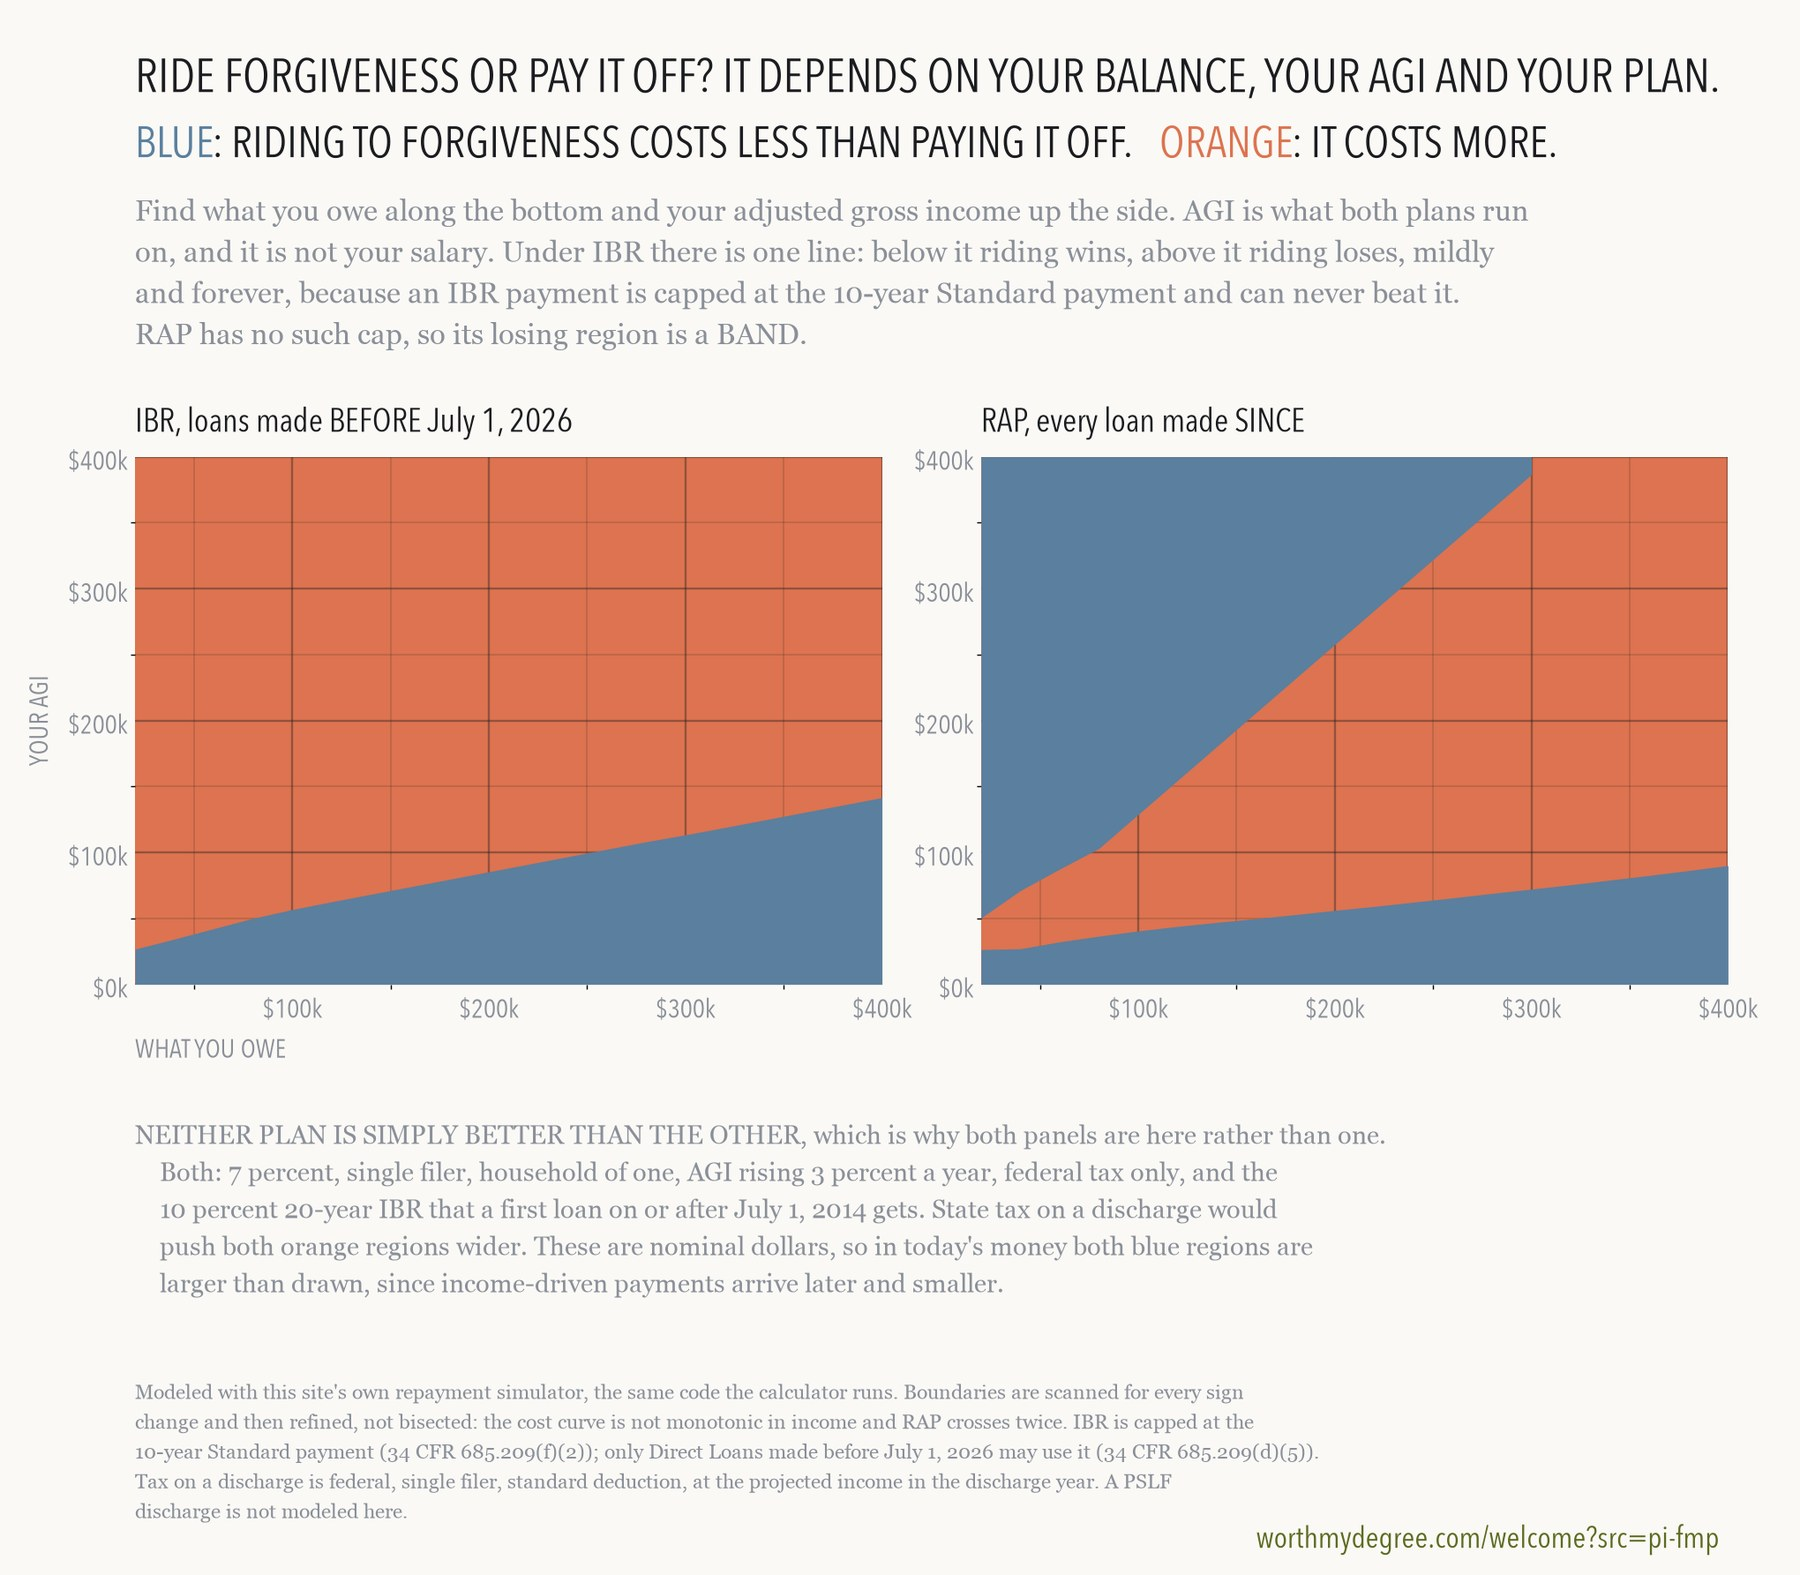
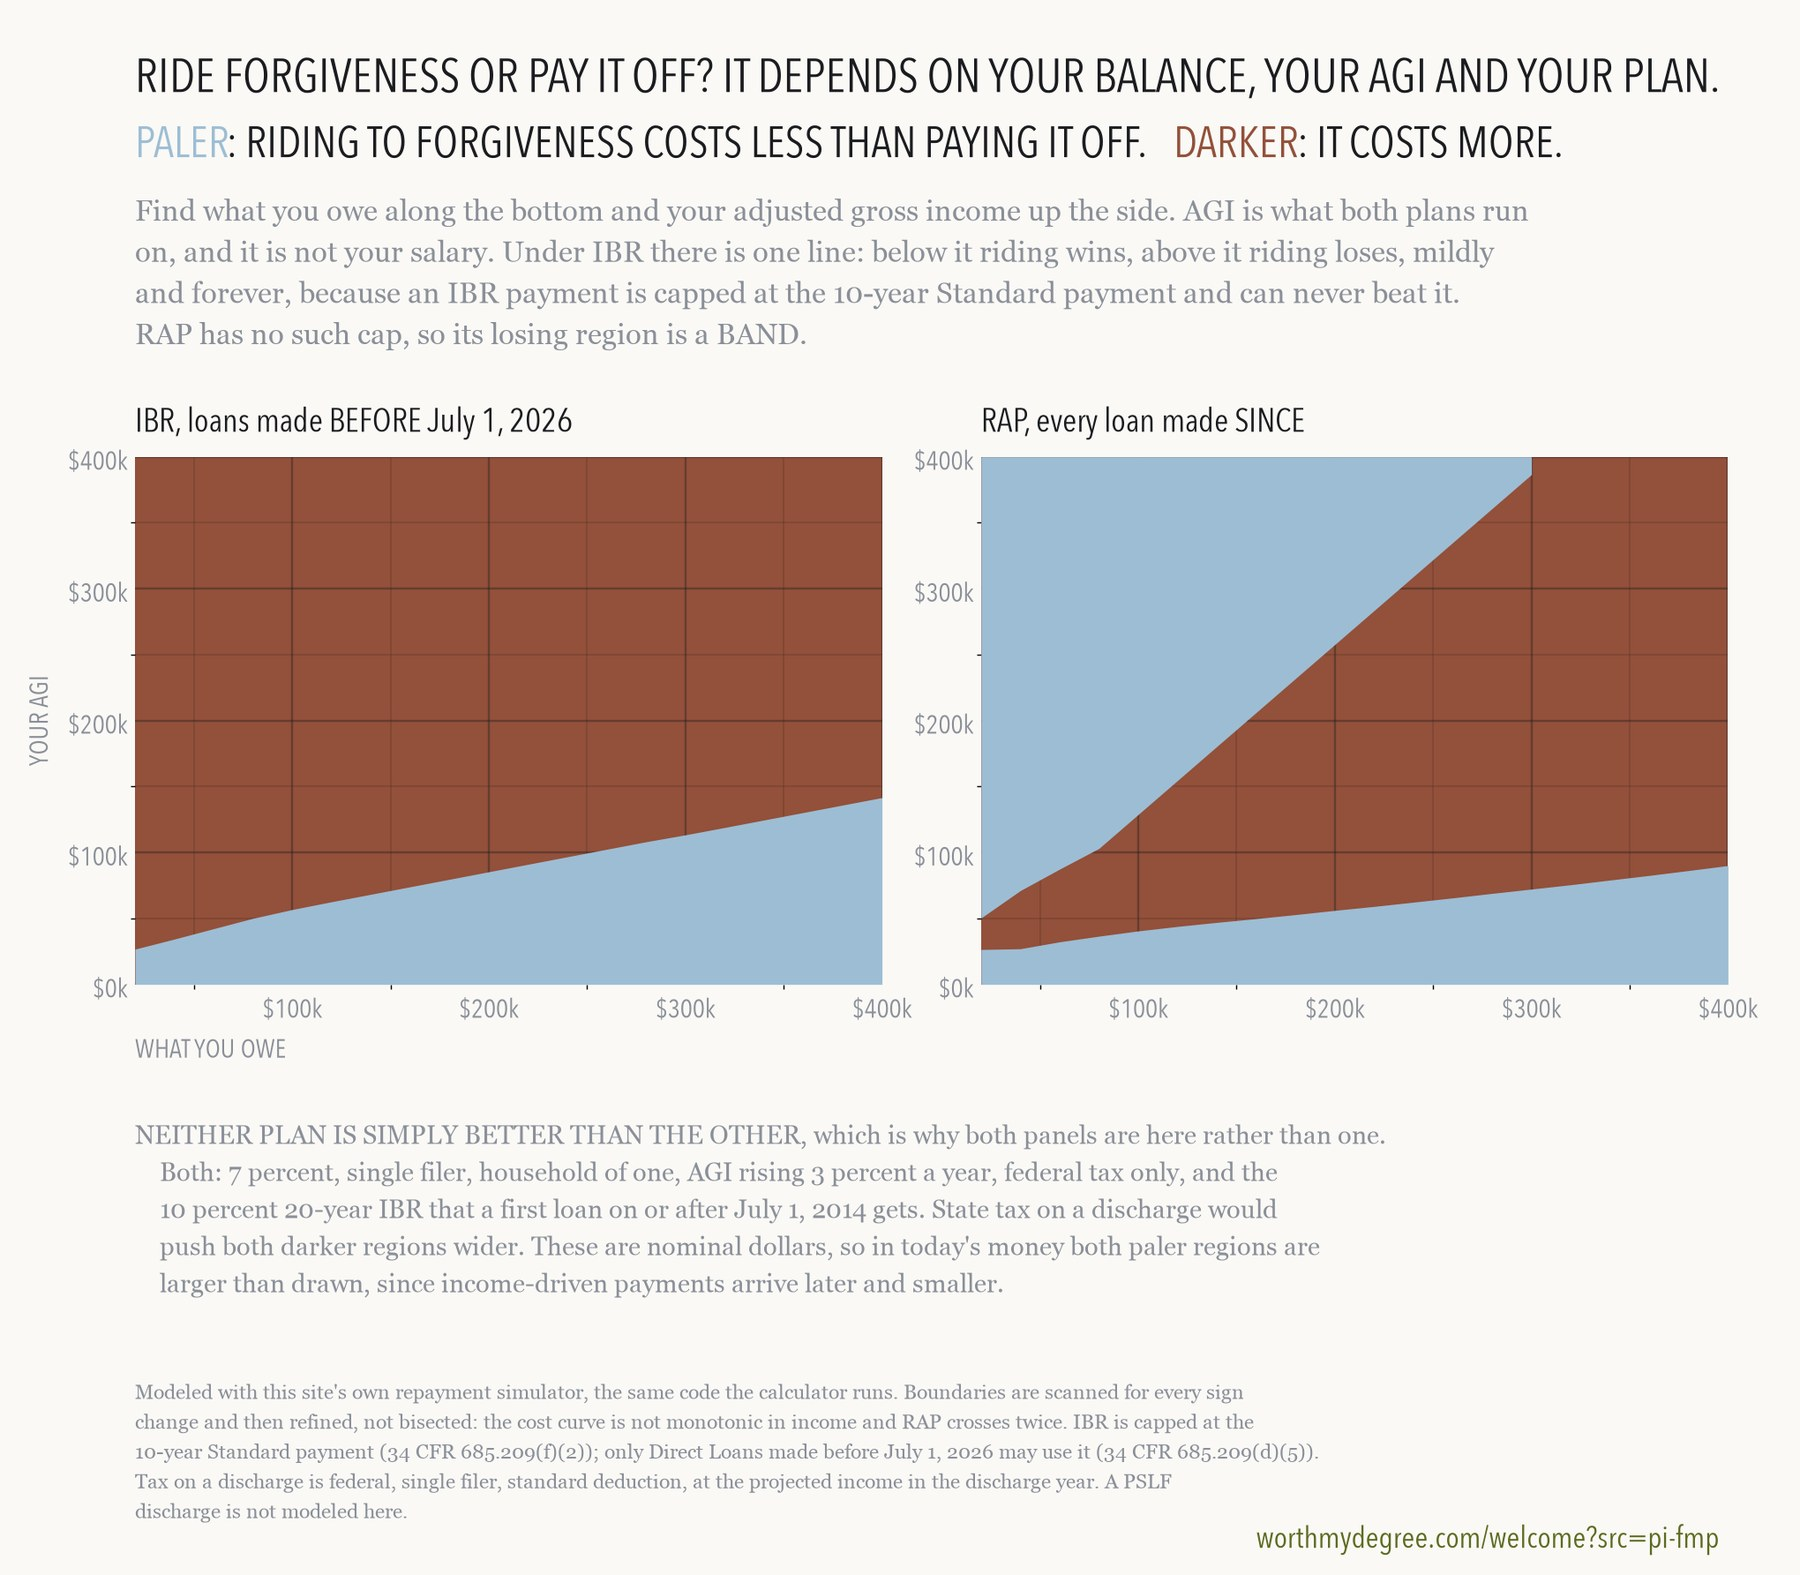
Three figures that did not survive grayscale, fixed
figures.md records the grayscale interior as an open question because "the
categorical hues have never been checked for monochrome". They have been
now: 35 data figures swept, flagging any pair that is clearly two colours
whose grayscale contrast falls under 1.30, which is the step this repo
already requires between adjacent swatches of the salary-flow grey ramp.
27 came back clean, 8 were flagged, and every flag was then LOOKED AT in
grayscale rather than trusted. Five were false positives. Three were real.

book-take-home-900x704.svg: a hatch on the loan segment, applied to the
rect and to its legend swatch. The loan's orange and What is left's blue
convert to the same dark grey, so the two segments app.py's own note calls
the ones carrying the decision became one block. The hatch is a second
channel, so the deliberate three-step grey tax ramp is left exactly as it
was.

book-chart-forgiveness-map-pair: it failed for a reason no luminance test
can see. The deck read "BLUE: riding to forgiveness costs less. ORANGE: it
costs more", and a figure that names its colours in drawn words breaks in
monochrome at any contrast. The two region colours now sit 3.09 apart
rather than 1.16, and the deck says PALER and DARKER, which is true in
both renderings. Three other sentences leaned on hue and moved with it. A
grep across every chapter and chart script found no other figure doing
this.

book-chart-professional-debt-versus-pay: eight categorical hues became one
[…]

diff --git a/brand/book_figures.py b/brand/book_figures.py
@@ -356,6 +356,9 @@ def fig_cap_ladder(ns):
     for colour, label in ((DEEP, "Subsidized: no interest while enrolled"),
                           (GAIN, "Unsubsidized: interest runs from disbursement")):
         b.append(f'<rect x="40" y="{y - 20}" width="26" height="26" fill="{colour}"/>')
+        if "loan" in label.lower():
+            b.append(f'<rect x="40" y="{y - 20}" width="26" height="26" '
+                     f'fill="url(#loanhatch)"/>')
         b.append(text("key", 80, y, label))
         y += 44
     b.append(f'<line x1="40" y1="{y + 6}" x2="{W - 40}" y2="{y + 6}" '
@@ -610,7 +613,20 @@ def fig_take_home(ns):
 
     PAD_L, TOP, BAR_H = 40, 200, 118
     height = TOP + BAR_H + 96 + len(segs) * 46 + 60
-    b = [text("h", 40, 52, "Where a nurse's pay goes"),
+    # A HATCH ON THE LOAN SEGMENT, because this bar does not survive grayscale
+    # without it. Measured 2026-09-11: the loan's orange and What is left's blue
+    # convert to the same dark grey, in the bar AND in the legend swatch, so the
+    # two segments app.py's own note calls "the two carrying the decision" become
+    # one block. The hatch is a SECOND channel, so the distinction no longer
+    # rests on hue alone and the deliberate three-step grey tax ramp is left
+    # exactly as it was. Interior print may be monochrome; this figure no longer
+    # depends on the answer.
+    b = [('<defs><pattern id="loanhatch" width="10" height="10" '
+          'patternUnits="userSpaceOnUse" patternTransform="rotate(45)">'
+          '<rect width="10" height="10" fill="none"/>'
+          f'<line x1="0" y1="0" x2="0" y2="10" stroke="{INK}" stroke-width="4" '
+          'stroke-opacity="0.55"/></pattern></defs>'),
+         text("h", 40, 52, "Where a nurse's pay goes"),
          text("sub", 40, 96, f"San Francisco, {money(gross)} gross, and the "
                              f"payment on the"),
          text("sub", 40, 132, "whole $27,000 federal student loan")]
@@ -619,10 +635,16 @@ def fig_take_home(ns):
         w = (W - 80) * v / gross
         b.append(f'<rect x="{x:.1f}" y="{TOP}" width="{w:.1f}" height="{BAR_H}" '
                  f'fill="{colour}"/>')
+        if "loan" in label.lower():
+            b.append(f'<rect x="{x:.1f}" y="{TOP}" width="{w:.1f}" '
+                     f'height="{BAR_H}" fill="url(#loanhatch)"/>')
         x += w
     y = TOP + BAR_H + 76
     for label, v, colour, _ in segs:
         b.append(f'<rect x="40" y="{y - 20}" width="26" height="26" fill="{colour}"/>')
+        if "loan" in label.lower():
+            b.append(f'<rect x="40" y="{y - 20}" width="26" height="26" '
+                     f'fill="url(#loanhatch)"/>')
         b.append(text("key", 80, y, label))
         b.append(text("key", W - 40, y, f"{100 * v / gross:.0f}%", anchor="end",
                       fill=MUTED, budget=90))
